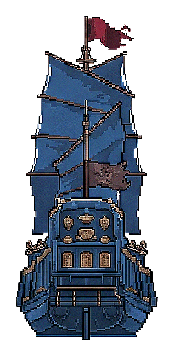
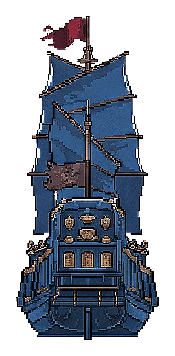
fix(naval): correct enemy flagship bow direction

diff --git a/docs/qa/playtest.md b/docs/qa/playtest.md
@@ -247,6 +247,7 @@
 | 2026-08-20 / naval terrain stamp render 1 | Codex | 随机海战图可把林地源头、连续河道、草岸和海滩河口作为一枚 6×8 地貌整张绘制，覆盖区域不再堆叠单格占位图 | 48 种子连通/避让断言、Godot headless 与 Vulkan 专项测试、1344×896 实战预览 | 交付用户试玩并决定下一批印章类型 |
 | 2026-08-20 / naval terrain stamp render 2 | Codex | 河口印章改为与战场一致的低饱和灰青宣纸像素水墨：树冠归并成墨团、河水改为蓝灰、河口用透明横向墨纹接入海面 | PNG Alpha/色域抽查、Godot headless 专项回归、1344×896 Vulkan 实战预览 | 交付用户确认风格后扩展港口、小镇等印章 |
 | 2026-08-22 / enemy ship four-view refresh 1 | Codex | 敌方运输船、护卫舰、旗舰替换为用户四视图素材的东南西北 12 张方向贴图；两张源图的中间甲板俯视列未接入 | 12 张 PNG Alpha/方向比例检查、Godot 资源导入、C# 构建、headless 海战 smoke、四方向总览 | 交付用户试玩 |
+| 2026-08-22 / enemy flagship bow correction 1 | Codex | 对调敌军三格旗舰的东/西与南/北贴图，使画面舰艏和逻辑朝向一致 | 旗舰四方向总览、Godot 方向素材专项测试、headless 海战 smoke | 交付用户复核 |
 | 2026-08-22 / player ship four-view refresh 1 | Codex | 我方运输船、护卫舰、商船、旗舰替换为用户四视图素材；禁用第一/第三行俯视图，占格固定为 1/2/2/3 | 16 张 PNG Alpha/方向比例、四方向总览、舰型长度配置、C# 构建、海战 smoke | 交付用户试玩 |
 | 2026-08-22 / exploration HUD upper-body portrait 1 | Codex | 左上主角头像从缩小全身立绘改为放大的冠饰、头部、胸甲至腰部裁切，菱形框和右侧文字位置不变 | UV 裁切断言、Godot headless 与 1344×896 OpenGL 探索 HUD 截图 | 交付用户试玩 |
 

diff --git a/docs/design/art-direction.md b/docs/design/art-direction.md
@@ -84,6 +84,7 @@
 - 战斗中的敌方运输船、护卫舰和旗舰均使用独立的东、南、西、北四方向像素贴图，路径约定为 `assets/naval/battle/ships/enemy_{transport|frigate|flagship}_{e|s|w|n}.png`；转向时只切换对应贴图，不旋转侧视图代替其他方向。
 - 2026-08-22 敌舰素材取自用户提供的两张互补四视图：第一张左列作为东向侧视、右列作为南向端视，第二张右列作为西向侧视、左列作为北向端视。两张图的中间木质甲板俯视列全部禁用，不得进入战斗资源。
 - 船型按源图行映射：第一行运输船、第二行护卫舰、第四行旗舰；第三行大型白帆商船暂不对应当前敌舰类型。裁切后保留透明底、原像素配色和完整旗帜/船帆，并适配既有方向画布，使默认镜头下的占格尺寸不突变。
+- 敌军三格旗舰的源图第四行舰艏朝向与前两行相反，运行时须对调该船的东/西侧视和南/北端视，确保方向标签始终指向画面舰艏，不得仅按素材所在列机械映射。
 
 ## 海战我方舰船四方向素材
 

diff --git a/docs/changes/CHG-20260822-enemy-ship-four-view-refresh.md b/docs/changes/CHG-20260822-enemy-ship-four-view-refresh.md
@@ -39,6 +39,12 @@
 - 四方向总览检查：三种船型的旗帜、船帆和船体均完整，未出现中间木质甲板俯视图或相邻行残片。
 - 窗口 smoke 在既有“点击逃跑格触发逃跑”断言处连续两次失败；该断言发生在敌舰素材加载之后，headless 同脚本通过，本次未修改逃跑、输入或移动代码。
 
+## 方向修正（2026-08-22）
+
+- 用户实机确认敌军三格旗舰的舰艏、舰尾与逻辑朝向相反。
+- 已对调 `enemy_flagship_e/w` 与 `enemy_flagship_n/s` 的贴图内容；仅修正旗舰四方向标签，不改占格、位置、数值或其他船型素材。
+- 重新运行方向素材专项测试与海战场景 smoke，确认四张资源可加载且战斗场景无回归。
+
 ## 最终核对
 
 - Files changed: `assets/naval/battle/ships/enemy_{transport|frigate|flagship}_{e|s|w|n}.png`、`tests/test_enemy_ship_directional_assets.gd`、`docs/design/art-direction.md`、`docs/qa/playtest.md`、本变更记录。
